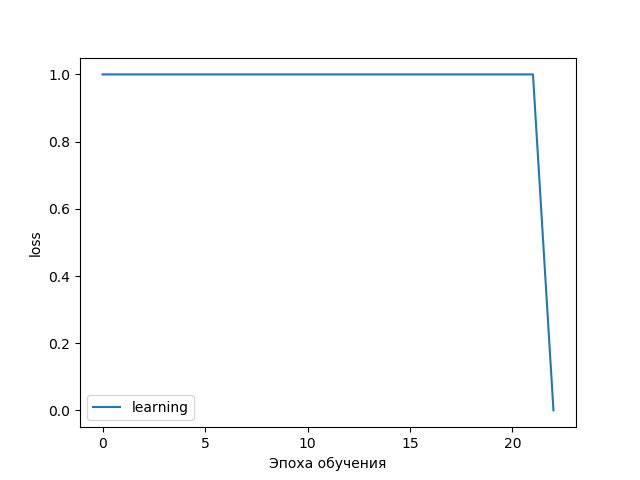
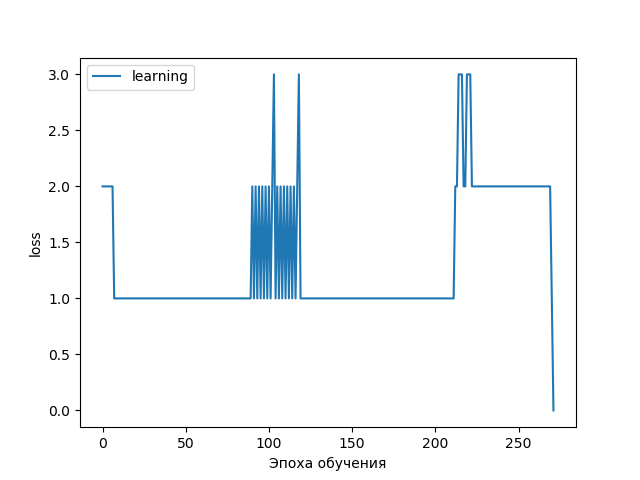
com_ri

diff --git a/examples/brainy/learn.py b/examples/brainy/learn.py
@@ -1,6 +1,6 @@
 import math
-from .nn_constants import RELU, RELU_DERIV, INIT_W_HE, INIT_W_MY, SIGMOID, SIGMOID_DERIV, TAN, TAN_DERIV, INIT_W_GLOROT_MY,\
-    INIT_W_HE_MY, SOFTMAX, CROS_ENTROPY, MODIF_MSE, INIT_W_MY_DEB, INIT_W_HE_MY, INIT_RANDN
+from .nn_constants import RELU, RELU_DERIV, INIT_W_MY, SIGMOID, SIGMOID_DERIV, TAN, TAN_DERIV,\
+    SOFTMAX, CROS_ENTROPY, MODIF_MSE, INIT_RANDN
 from .NN_params import Nn_params   # импортруем параметры сети
 from .Lay import Lay, Dense   # импортируем слой
 from .work_with_arr import copy_vector
@@ -11,14 +11,13 @@ import numpy as np
 
 
 def calc_out_error(nn_params: Nn_params, targets: list, loger: logging.Logger):
-    loger.debug('-in calc_out_error-')
     layer = nn_params.net[nn_params.nl_count-1]
     out = layer.out
     if layer.act_func != SOFTMAX and nn_params.loss_func == MODIF_MSE:
         tmp_v = 0
         for row in range(out):
             tmp_v += (layer.hidden[row] - targets[row]) * operations(
-                layer.act_func+1, layer.hidden[row], 0.42, 0, 0, "", nn_params)
+                layer.act_func+1, layer.hidden[row], nn_params)
         nn_params.out_errors[row] = tmp_v
 
     elif layer.act_func == SOFTMAX and nn_params.loss_func == CROS_ENTROPY:
@@ -30,28 +29,30 @@ def calc_out_error(nn_params: Nn_params, targets: list, loger: logging.Logger):
 
 def calc_hid_error(nn_params: Nn_params, layer_ind: int, errors_next: list, layer_hidden: list, loger: logging.Logger):
     layer = nn_params.net[layer_ind]
-    for elem in range(layer.in_):
+    for row in range(layer.out):
         tmp_v = 0
-        for row in range(layer.out):
-            tmp_v += layer.matrix[row][elem] * errors_next[elem] * operations(
-                layer.act_func + 1, layer_hidden[elem], 0, 0, 0, "", nn_params)
-        layer.errors[elem] = tmp_v
+        for elem in range(layer.in_):
+            tmp_v += layer.matrix[row][elem] * errors_next[row] * operations(
+                layer.act_func + 1, layer_hidden[row], nn_params)
+        layer.errors[row] = tmp_v
 
 
 def upd_matrix(nn_params: Nn_params, layer_ind, errors_next, inputs, lr, loger):
     layer = nn_params.net[layer_ind]
     for row in range(layer.out):
+        error_next = errors_next[row]
         for elem in range(layer.in_):
             if layer.with_bias:
                 if elem == 0:
-                    layer.matrix[row][elem] -= lr * errors_next[elem] * 1
+                    layer.matrix[row][elem] -= lr * error_next * 1
                 else:
                     layer.matrix[row][elem] -= lr * \
-                        errors_next[elem] * inputs[row]
+                        error_next * inputs[elem]
 
             else:
                 layer.matrix[row][elem] -= lr * \
-                    errors_next[elem] * inputs[row]
+                    error_next *\
+                    inputs[elem]
 
 
 def backpropagate(nn_params: Nn_params, out_nn, targets, inputs, lr, loger):
@@ -101,7 +102,7 @@ def get_err(diff: list):
     sum = 0
     for row in range(len(diff)):
         sum += diff[row] * diff[row]
-    return sum 
+    return sum
 
 
 def get_mse(out_nn, teacher, n):
@@ -178,7 +179,7 @@ def make_hidden(nn_params, layer_ind, inputs: list, loger: logging.Logger):
             layer.cost_signals[row] = tmp_v
 
             if layer.act_func != SOFTMAX:
-                val = operations(layer.act_func, tmp_v, 0, 0, 0, "", nn_params)
+                val = operations(layer.act_func, tmp_v, nn_params)
                 layer.hidden[row] = val
 
         if layer.act_func == SOFTMAX:
@@ -204,7 +205,7 @@ def make_hidden_on_contrary(nn_params: Nn_params, objLay: Lay, inputs: list, log
                 else:
                     tmp_v += objLay.matrix[row][elem] * inputs[elem]
             objLay.cost_signals[row] = tmp_v
-            val = operations(nn_params.act_fu, tmp_v, 0, 0, 0, "", nn_params)
+            val = operations(nn_params.act_fu, tmp_v, nn_params)
             objLay.hidden[row] = val
             tmp_v = 0
             if objLay.act_func == SOFTMAX:
@@ -227,7 +228,7 @@ def cr_lay(nn_params: Nn_params, type_='D', in_=0, out=0, act_func=None, with_bi
         for row in range(out):
             for elem in range(in_):
                 layer.matrix[row][elem] = operations(
-                    INIT_W_MY, in_, out, 0, 0, "", nn_params)
+                    INIT_W_MY, 0, nn_params)
 
         nn_params.nl_count += 1
         return nn_params

diff --git a/examples/shell_code.py b/examples/shell_code.py
@@ -37,7 +37,6 @@ nn_params_new = None
 
 
 def exec_(buffer, loger, date):
-    # nn_params=Nn_params()
     X_t = None
     Y_t = None
     X_eval = None
@@ -70,7 +69,7 @@ def exec_(buffer, loger, date):
             nn_params = Nn_params()
 
             acts_di = {'s': SIGMOID, 'r': RELU,
-                       't': TAN, 'SO': SOFTMAX, 'l': LEAKY_RELU,'tr': TRESHOLD_FUNC }
+                       't': TAN, 'SO': SOFTMAX, 'l': LEAKY_RELU, 'tr': TRESHOLD_FUNC}
             ip += 1
             arg = buffer[ip]
             type_m, denses, inps, acts, use_bi = arg
@@ -86,7 +85,7 @@ def exec_(buffer, loger, date):
                     nn_params.input_neurons = inps[0]
                     nn_params.outpu_neurons = inps[-1]
                     nn_params = cr_lay(nn_params, 'D',
-                                       inps[i], inps[i+1],
+                                       inps[i], inps[i + 1],
                                        acts_di.get(acts[i]), use_bias_, loger)
 
         elif op == determe_X_Y:
@@ -111,7 +110,7 @@ def exec_(buffer, loger, date):
             ip += 1
             arg = buffer[ip]
             eps, l_r_, with_adap_lr, ac_, mse_, loss_f, with_loss_threshold, loger = arg
-            nn_params.alpha_sigmoid = 2
+            nn_params.alpha_sigmoid = 1.7159
 
             nn_params.loss_func = loss_func_di.get(loss_f)
             if not X_eval and not Y_eval:
@@ -173,13 +172,23 @@ if __name__ == '__main__':
         X_my = [[0, 1], [0, 0]]
 
         Y_my = [[1], [0]]
-        p2 = (push_obj, X, push_obj, Y_and, determe_X_Y, push_obj, X, push_obj, Y_and, determe_X_eval_Y_eval,
-              make_net, ('S', ('D', 'D'), (2, 2, 1), ('tr', 'tr'),
-                         ('usebias_0', 'usebias_0')),
-              fit_net, (100, 0.1, False, 100, 0, "mse", True, loger),
-              stop)
+        and_p = (push_obj, X, push_obj, Y_and, determe_X_Y, push_obj, X, push_obj, Y_and, determe_X_eval_Y_eval,
+                 make_net, ('S', ('D', 'D'), (2, 2, 1), ('tr', 'tr'),
+                            ('usebias_0', 'usebias_0')),
+                 fit_net, (100, 0.1, False, 100, 0, "mse", True, loger),
+                 stop)
+        and_p_long = (push_obj, X, push_obj, Y_and, determe_X_Y, push_obj, X, push_obj, Y_and, determe_X_eval_Y_eval,
+                      make_net, ('S', ('D', 'D', 'D'), (2, 4, 4, 1), ('tr', 'tr', 'tr'),
+                                 ('usebias_0', 'usebias_0', 'usebias_0')),
+                      fit_net, (100, 0.1, False, 100, 0, "mse", True, loger),
+                      stop)
+        xor_p = (push_obj, X, push_obj, Y_xor, determe_X_Y, push_obj, X, push_obj, Y_xor, determe_X_eval_Y_eval,
+                 make_net, ('S', ('D', 'D'), (2, 8, 1), ('tr', 'tr'),
+                            ('usebias_0', 'usebias_0')),
+                 fit_net, (100, 0.1, True, 100, 0, "mse", True, loger),
+                 stop)
 
-        exec_(p2, loger, date)
+        exec_(xor_p, loger, date)
     else:
         print("Program must have option: -release or -debug")
         sys.exit(-2)

diff --git a/examples/brainy/operations.py b/examples/brainy/operations.py
@@ -1,6 +1,6 @@
 from .nn_constants import RELU_DERIV, RELU, TRESHOLD_FUNC, TRESHOLD_FUNC_DERIV, LEAKY_RELU, LEAKY_RELU_DERIV,\
-    SIGMOID, SIGMOID_DERIV, DEBUG, DEBUG_STR, INIT_W_HE, INIT_W_GLOROT_MY, INIT_W_HABR, INIT_W_MY, INIT_W_UNIFORM,\
-    TAN, TAN_DERIV, INIT_W_HE_MY, INIT_W_MY_DEB, INIT_W_HE, INIT_RANDN
+    SIGMOID, SIGMOID_DERIV, INIT_W_MY,\
+    TAN, TAN_DERIV, INIT_RANDN, INIT_W_CONST, INIT_W_RANDOM
 from .NN_params import Nn_params
 from .nn_constants import max_rows_orOut_10
 import math
@@ -24,60 +24,59 @@ y = 0
 np.random.randn()
 
 
-def operations(op, a, b, c, d, str_, nn_params: Nn_params):
+def operations(op, x, nn_params: Nn_params):
     global ready, y
     alpha_leaky_relu = nn_params.alpha_leaky_relu
     alpha_sigmoid = nn_params.alpha_sigmoid
     alpha_tan = nn_params.alpha_tan
     beta_tan = nn_params.beta_tan
     if op == RELU:
-        if (a <= 0):
+        if (x <= 0):
             return 0
         else:
-            return a
+            return x
     elif op == RELU_DERIV:
-        if (a <= 0):
+        if (x <= 0):
             return 0
         else:
             return 1
     elif op == TRESHOLD_FUNC:
-        if (a > 0.5):
+        if (x > 0.5):
             return 1
         else:
             return 0
     elif op == TRESHOLD_FUNC_DERIV:
         return 1
     elif op == LEAKY_RELU:
-        if (a <= 0):
+        if (x <= 0):
             return alpha_leaky_relu
         else:
             return 1
     elif op == LEAKY_RELU_DERIV:
-        if (a <= 0):
+        if (x <= 0):
             return alpha_leaky_relu
         else:
             return 1
     elif op == SIGMOID:
-        y = 1 / (1 + math.exp(- alpha_sigmoid * a))
+        y = 1 / (1 + math.exp(- alpha_sigmoid * x))
         return y
     elif op == SIGMOID_DERIV:
-
         return (alpha_sigmoid * y * (1 - y))
-    elif op == INIT_W_HE_MY:
+    elif op == INIT_W_MY:
         if ready:
             ready = False
-            return -math.sqrt(2 / a) * 0.567141530112327
+            return -0.567141530112327
         ready = True
-        return math.sqrt(2 / a) * 0.567141530112327
-    elif op == INIT_W_MY:
+        return 0.567141530112327
+    elif op == INIT_W_RANDOM:
         return random.random()
     elif op == TAN:
-        f = alpha_tan * math.tanh(beta_tan * a)
+        f = alpha_tan * math.tanh(beta_tan * x)
         return f
     elif op == TAN_DERIV:
         return beta_tan / alpha_tan * (alpha_tan * alpha_tan - y * y)
-    elif op == INIT_W_MY_DEB:
-        return 2
+    elif op == INIT_W_CONST:
+        return 0.567141530112327
     elif op == INIT_RANDN:
         return np.random.randn()
     else:

diff --git a/examples/brainy/fit.py b/examples/brainy/fit.py
@@ -56,21 +56,25 @@ def fit(nn_params: Nn_params, X, Y, X_test, Y_test, eps, l_r_, with_adap_lr, wit
             y = Y[retrive_ind]
             #y = convert_to_fur(y)
             out_nn = feed_forwarding(nn_params, x, loger)
-            loger.debug(f'out_nn: {out_nn}')
-
-            loger.info(f'mse: {mse}')
-            # print("out nn", out_nn)
             error += get_err(calc_diff(out_nn, y, nn_params.outpu_neurons))
-            if with_adap_lr:
-                delta_error = error - gama * error_pr
-                if delta_error > 0:
-                    l_r = alpha * l_r
-                else:
-                    l_r = beta * l_r
-                error_pr = error
+            # if with_adap_lr:
+            #     delta_error = error - gama * error_pr
+            #     if delta_error > 0:
+            #         l_r = alpha * l_r
+            #     else:
+            #         l_r = beta * l_r
+            #     error_pr = error
             backpropagate(nn_params, out_nn, y, x, 0.01, loger)
             ac = evaluate_new(nn_params, X_test, Y_test, loger)
             print("acc", ac)
+
+        if with_adap_lr:
+            delta_error = error - gama * error_pr
+            if delta_error > 0:
+                l_r = alpha * l_r
+            else:
+                l_r = beta * l_r
+            error_pr = error            
 
         if exit_flag:
             break

diff --git a/examples/brainy/nn_constants.py b/examples/brainy/nn_constants.py
@@ -10,9 +10,9 @@ max_am_objMse = max_am_epoch
 max_stack_matrEl = 256
 max_stack_otherOp_10 = 4
 bc_bufLen = 256
-elems_of_img=10000
-max_spec_elems_10000=10000
-max_spec_elems_1000=1000
+elems_of_img = 10000
+max_spec_elems_10000 = 10000
+max_spec_elems_1000 = 1000
 # команды для operations
 RELU = 1
 RELU_DERIV = 2
@@ -24,20 +24,15 @@ LEAKY_RELU = 7
 LEAKY_RELU_DERIV = 8
 TAN = 9
 TAN_DERIV = 10
-INIT_W_HE = 11
-INIT_W_GLOROT_MY = 12
-DEBUG = 12
-DEBUG_STR = 13
-INIT_W_HABR = 14
-INIT_W_MY = 15
-INIT_W_UNIFORM = 16
-NOP = 17
-INIT_W_HE_MY = 18
-SOFTMAX = 19
-MODIF_MSE=20
-CROS_ENTROPY=21
-INIT_W_MY_DEB=22
-INIT_RANDN=23
+INIT_W_MY = 11
+NOP = 12
+SOFTMAX = 13
+MODIF_MSE = 14
+CROS_ENTROPY = 15
+INIT_W_CONST = 16
+INIT_W_RANDOM = 17
+INIT_RANDN = 18
+INIT_W_CONST = 19
 # байт-коды для сериализации/десериализации-загрузка входов/выходов,загрузка элементов матрицы,сворачивание то есть создания ядра, есть ли биасы,остановка ВМ
 push_i = 1
 push_fl = 2
